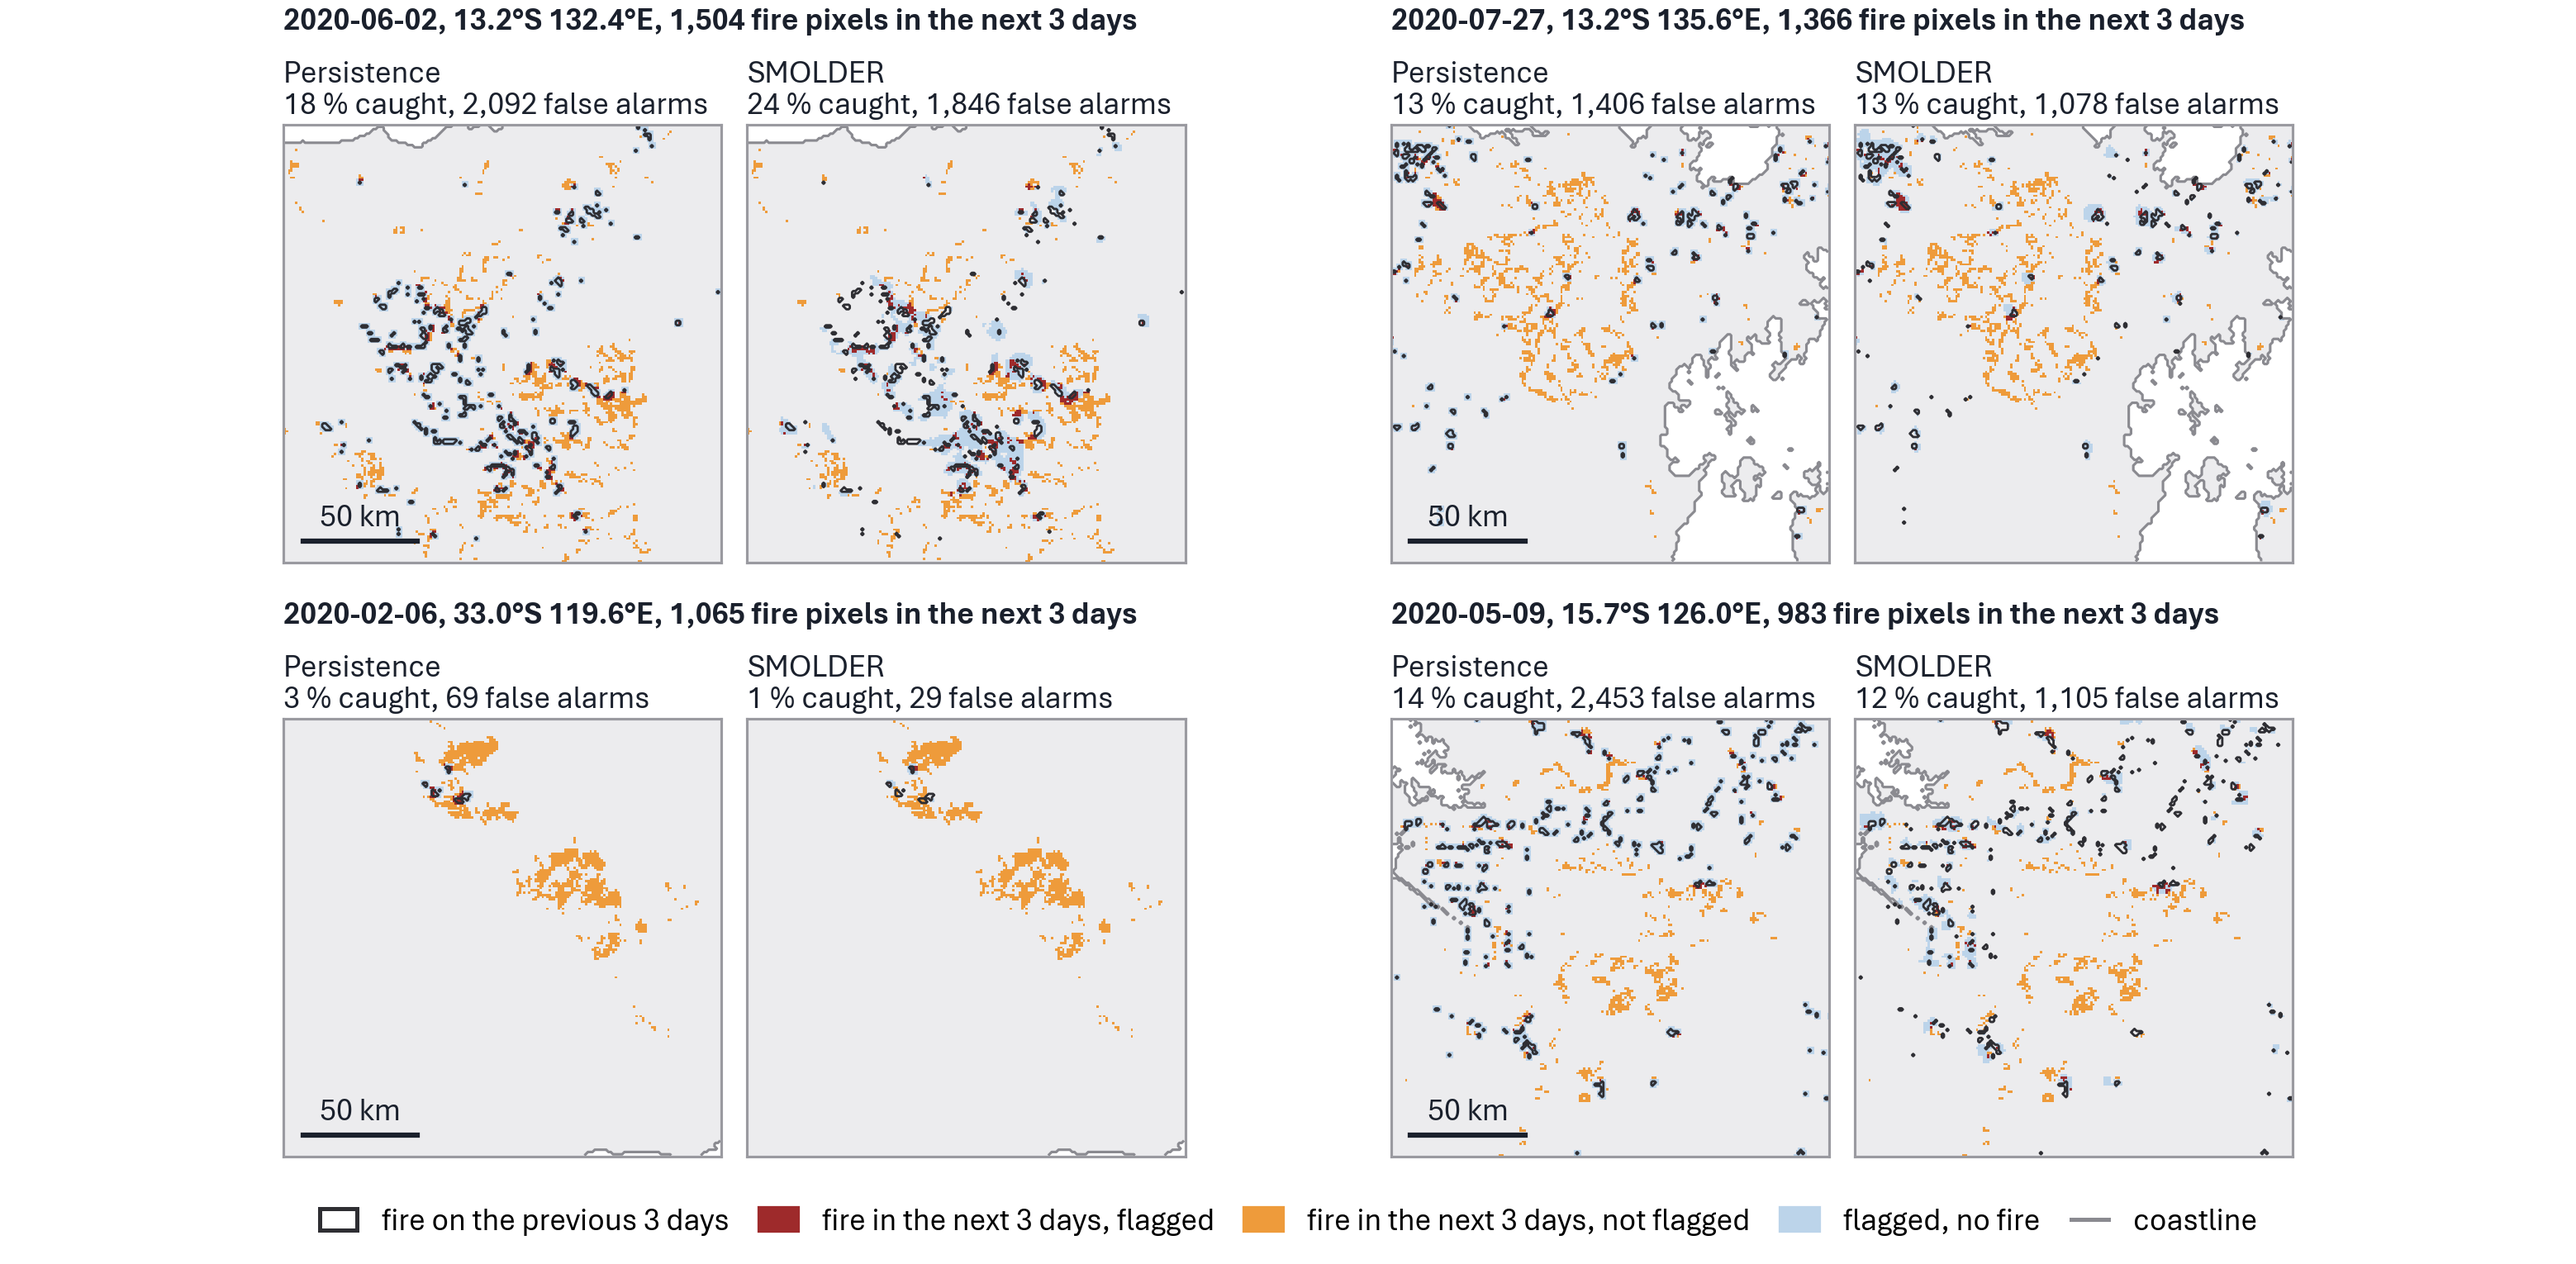
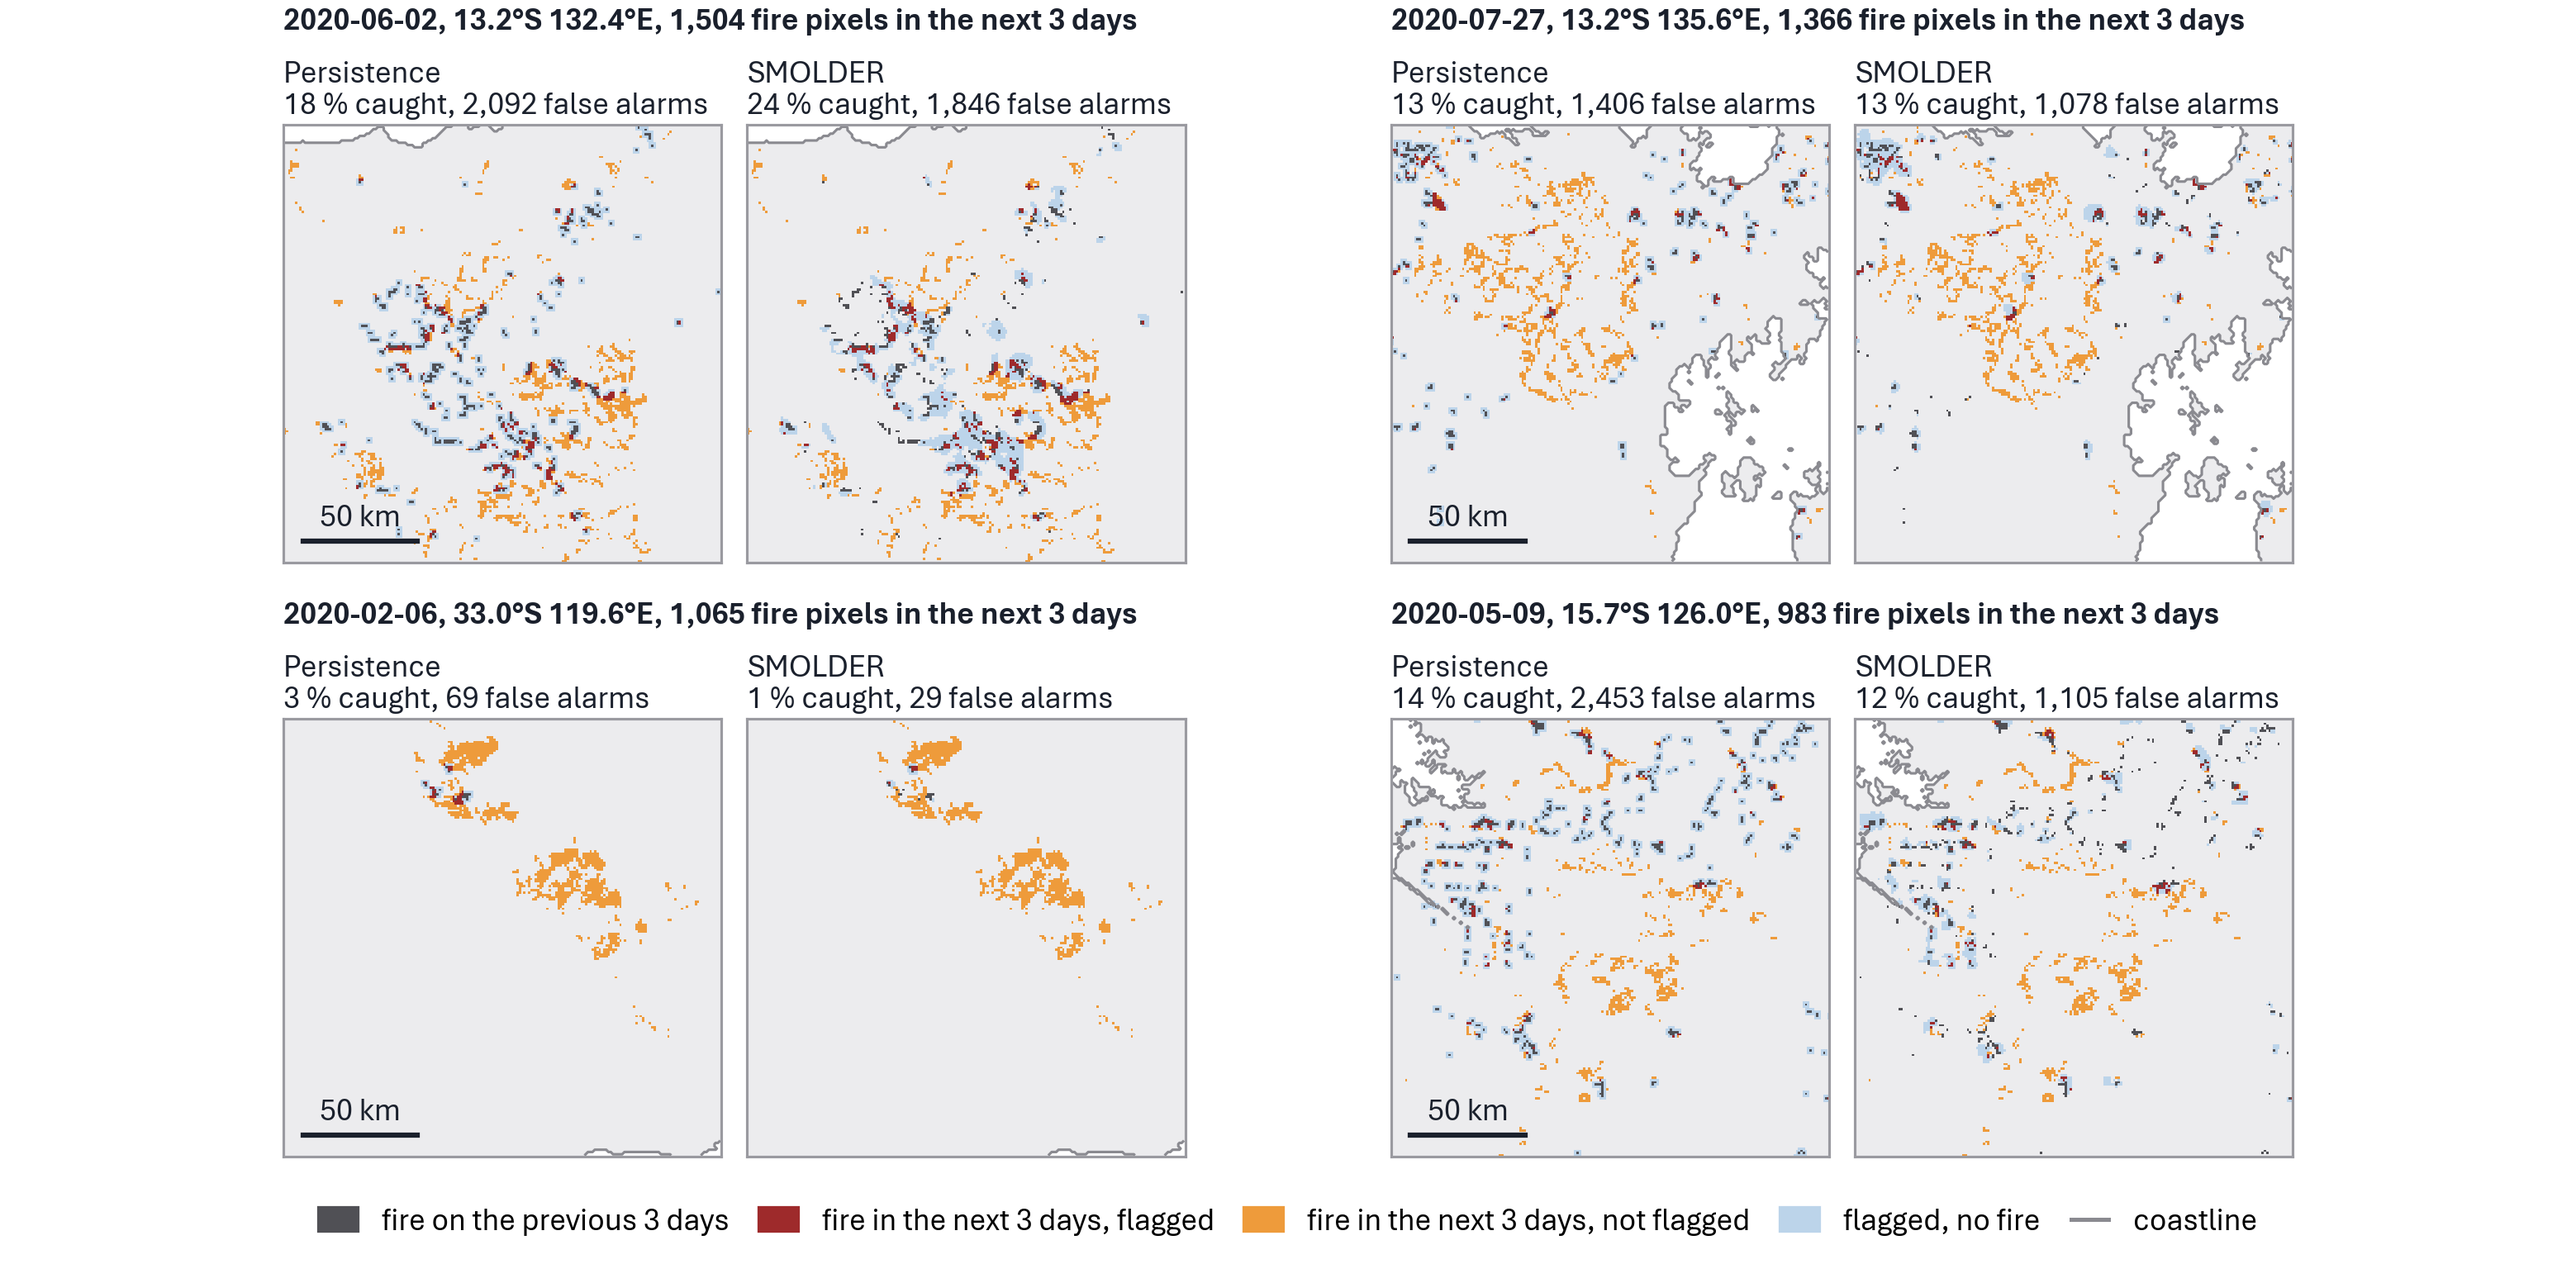
Event maps: fire of the previous 3 days as a dark grey area beneath the fire of the next 3 days

diff --git a/figures/make_paper_figures.py b/figures/make_paper_figures.py
@@ -211,18 +211,20 @@ def events():
     """Event maps: per event two panels, persistence and SMOLDER, each flagging at its
     best-F2 threshold of 2019. Warm colours are fire, the cool colour is the flagged
     area: fire of the next 3 days dark red inside the flagged area (caught) and orange
-    outside it (missed); fire of the previous 3 days as a dark outline on top."""
+    outside it (missed); fire of the previous 3 days dark grey, beneath the fire of the
+    next 3 days so that it never hides it."""
     year = int(os.environ.get("YEAR", 2020)); z = np.load(os.environ["EVENT_CACHE"])
-    OCEAN, LAND, FLAG, CAUGHT, MISSED = "#FFFFFF", "#ECECEE", "#BCD4EA", "#9E2A2B", "#EE9B3B"
-    PREV, COAST = "#2E2E33", "#8A8A90"
-    cmap = ListedColormap([OCEAN, LAND, FLAG, CAUGHT, MISSED]); S = 192
+    OCEAN, LAND, FLAG, PREV, CAUGHT, MISSED = "#FFFFFF", "#ECECEE", "#BCD4EA", "#505055", "#9E2A2B", "#EE9B3B"
+    COAST = "#8A8A90"
+    cmap = ListedColormap([OCEAN, LAND, FLAG, PREV, CAUGHT, MISSED]); S = 192
     LON0, LAT0, PX = 112.904998779, -9.005000113999998, 0.01
 
-    def rgb(land, y, flag):
+    def rgb(land, recent, y, flag):
         c = np.where(land, 1, 0)
-        c = np.where(flag & ~y, 2, c)
-        c = np.where(flag & y, 3, c)
-        return np.where(~flag & y, 4, c)
+        c = np.where(flag & ~y, 2, c)                  # flagged, no fire
+        c = np.where(recent & ~y, 3, c)                # previous fire (beneath the next 3 days)
+        c = np.where(flag & y, 4, c)                   # next 3 days, flagged
+        return np.where(~flag & y, 5, c)               # next 3 days, not flagged
 
     for kind in ("well", "poorly"):
         n = sum(1 for k in z.files if k.startswith(kind) and k.endswith("_meta"))
@@ -238,10 +240,8 @@ def events():
             for j, (c, title) in enumerate((("persistence", "Persistence"), ("full", "SMOLDER"))):
                 ax = fig.add_axes([x_ev[col] + j * (pw + gap), y_row[row], pw, ph])
                 flag = z[p + c]
-                ax.imshow(rgb(land, y, flag), cmap=cmap, vmin=-0.5, vmax=4.5, interpolation="nearest")
+                ax.imshow(rgb(land, recent, y, flag), cmap=cmap, vmin=-0.5, vmax=5.5, interpolation="nearest")
                 ax.contour(land.astype(float), levels=[0.5], colors=COAST, linewidths=0.5)
-                if recent.any():
-                    ax.contour(recent.astype(float), levels=[0.5], colors=PREV, linewidths=0.45)
                 ax.set_xticks([]); ax.set_yticks([])
                 for sp in ax.spines.values():
                     sp.set_color("#9A9AA0"); sp.set_linewidth(0.5)
@@ -251,7 +251,7 @@ def events():
                 if j == 0:
                     ax.plot([8, 58], [S - 10, S - 10], color=INK, lw=1.0)
                     ax.text(33, S - 14, "50 km", ha="center", va="bottom", fontsize=6, color=INK)
-        handles = [Patch(facecolor="none", edgecolor=PREV, lw=0.8, label="fire on the previous 3 days"),
+        handles = [Patch(color=PREV, label="fire on the previous 3 days"),
                    Patch(color=CAUGHT, label="fire in the next 3 days, flagged"),
                    Patch(color=MISSED, label="fire in the next 3 days, not flagged"),
                    Patch(color=FLAG, label="flagged, no fire"),
